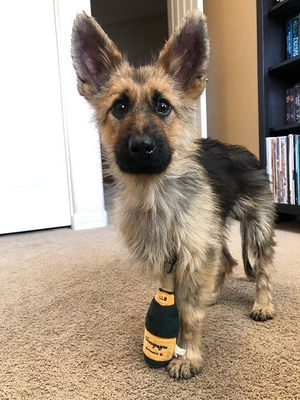
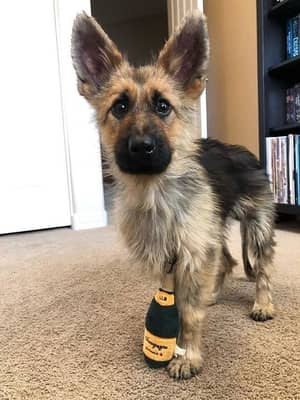
Final v2

diff --git a/autor.html b/autor.html
@@ -72,7 +72,7 @@
                           <h1 class="display-4">Adam Nikolić 101/19</h1>
                           <div class="row">
                               <div class="col-sm-5 col-md-4 col-lg-3 col-12 center">
-                                  <img src="img/autor.jpg" class="img-fluid pt-sm-5 pt-md-4" alt="autor">
+                                  <img src="img/autor-min.jpg" class="img-fluid pt-sm-5 pt-md-4" alt="autor">
                               </div>
                               <div class="col-sm-7 col-md-8 col-lg-9 col-12">
                                 <h4 class="m-2 size">Find me on social media</h4>  
